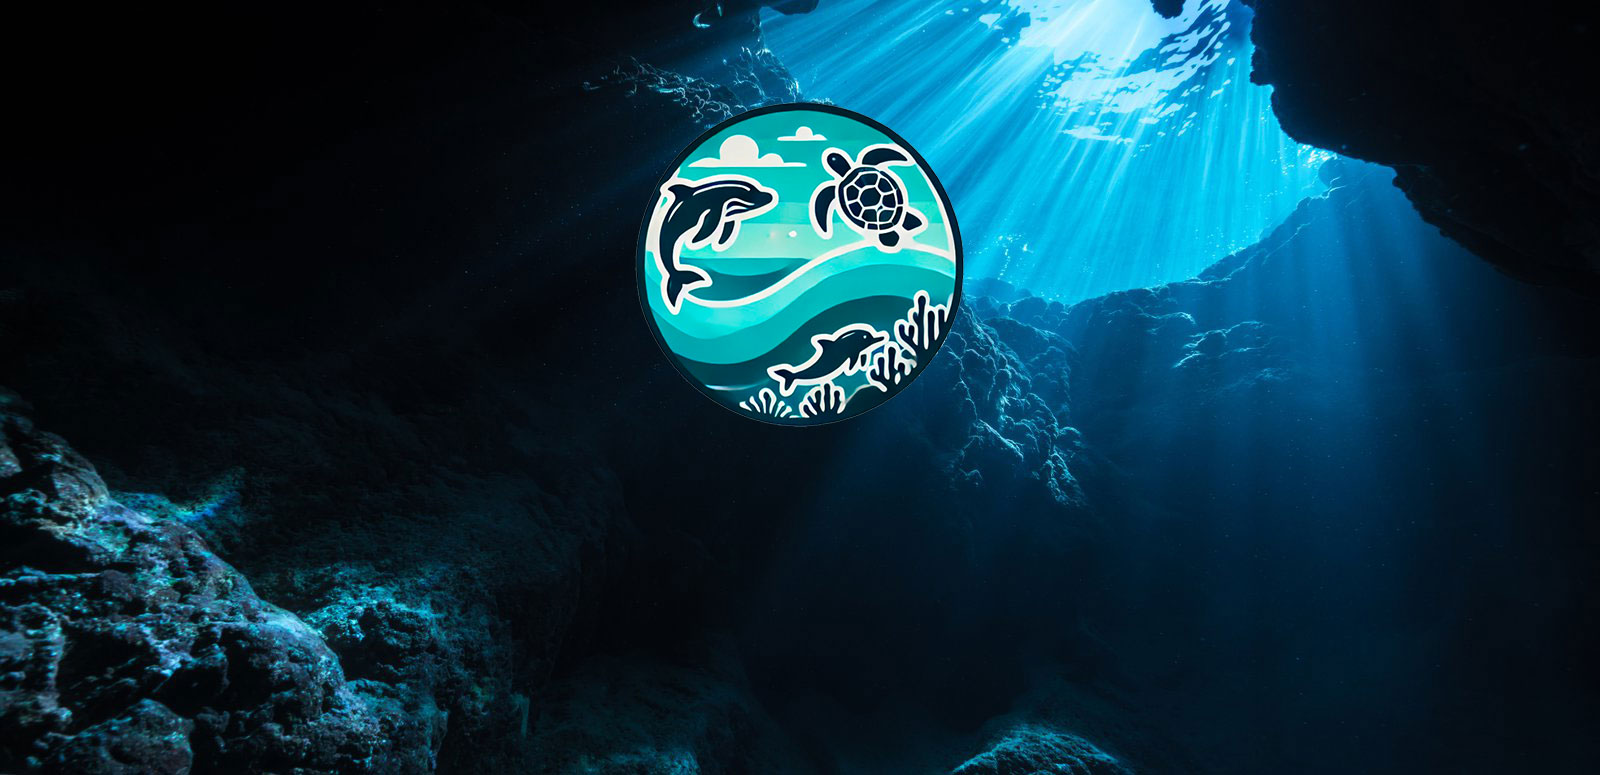
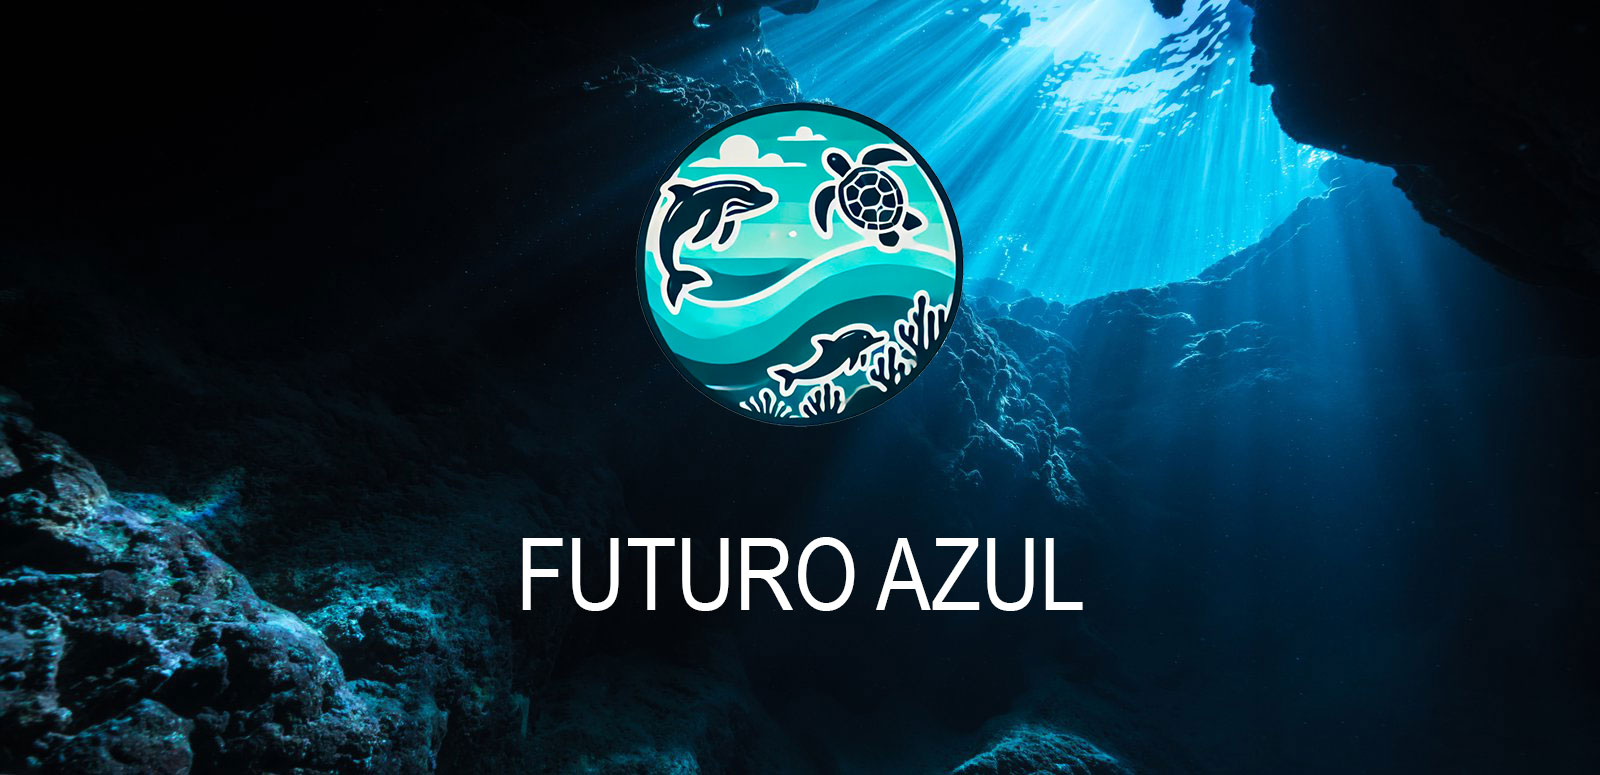
update

Changed region(s): [[0.3125, 0.6813, 0.6875, 0.8052]]

diff --git a/index.html b/index.html
@@ -10,15 +10,8 @@
 <header class="img-container">
 
 
-    <img src="imgs/header.jpg"/>
+    <img src="imgs/header.jpg" id="img_inicio"/>
     <audio id="audio" src="imgs/audio/goat-sound-effect-259473.mp3"></audio>
-    <div class="container">
-        <div class="row">
-            <div class="col-12">
-                <div>Futuro Azul</div>
-            </div>
-        </div>
-    </div>
 </header>
 <nav class="barra_nav">
     <div class="container">
@@ -92,25 +85,6 @@
 </footer>
 
 
-
-
-
-<!--
-<img alt="imagem inicio" id="img_inicio" src="imgs/img_inicio.jpg">
-<div class="container">
-    <div class="row">
-        <div class="col-12">
-            <img alt="logo" id="logo" src="imgs/logo%20futuro%20azul.png">
-            <audio id="audio" src="imgs/audio/goat-sound-effect-259473.mp3"></audio>
-        </div>
-    </div>
-    <div class="row">
-        <div class="col-12">
-            <div class="texto_logo">Futuro Azul</div>
-        </div>
-    </div>
-</div>
---!>
 
 
 

diff --git a/estilos.css b/estilos.css
@@ -1,29 +1,3 @@
-#img_inicio {
-    width: 100%;
-    margin: 0;
-    display: block;
-}
-
-#logo {
-    position: absolute;
-    top: 40%;
-    left: 50%;
-    transform: translate(-50%,-50%);
-}
-
-.texto_logo {
-    position: absolute;
-    top: 80%;
-    left: 50%;
-    transform: translate(-50%, -50%);
-    color: white;
-    font-family: Arial, sans-serif;
-    font-size: 4rem;
-    font-weight: 100;
-    text-align: center;
-    text-transform: uppercase;
-    margin-bottom: 20px;
-}
 
 header {
     text-transform: uppercase;
